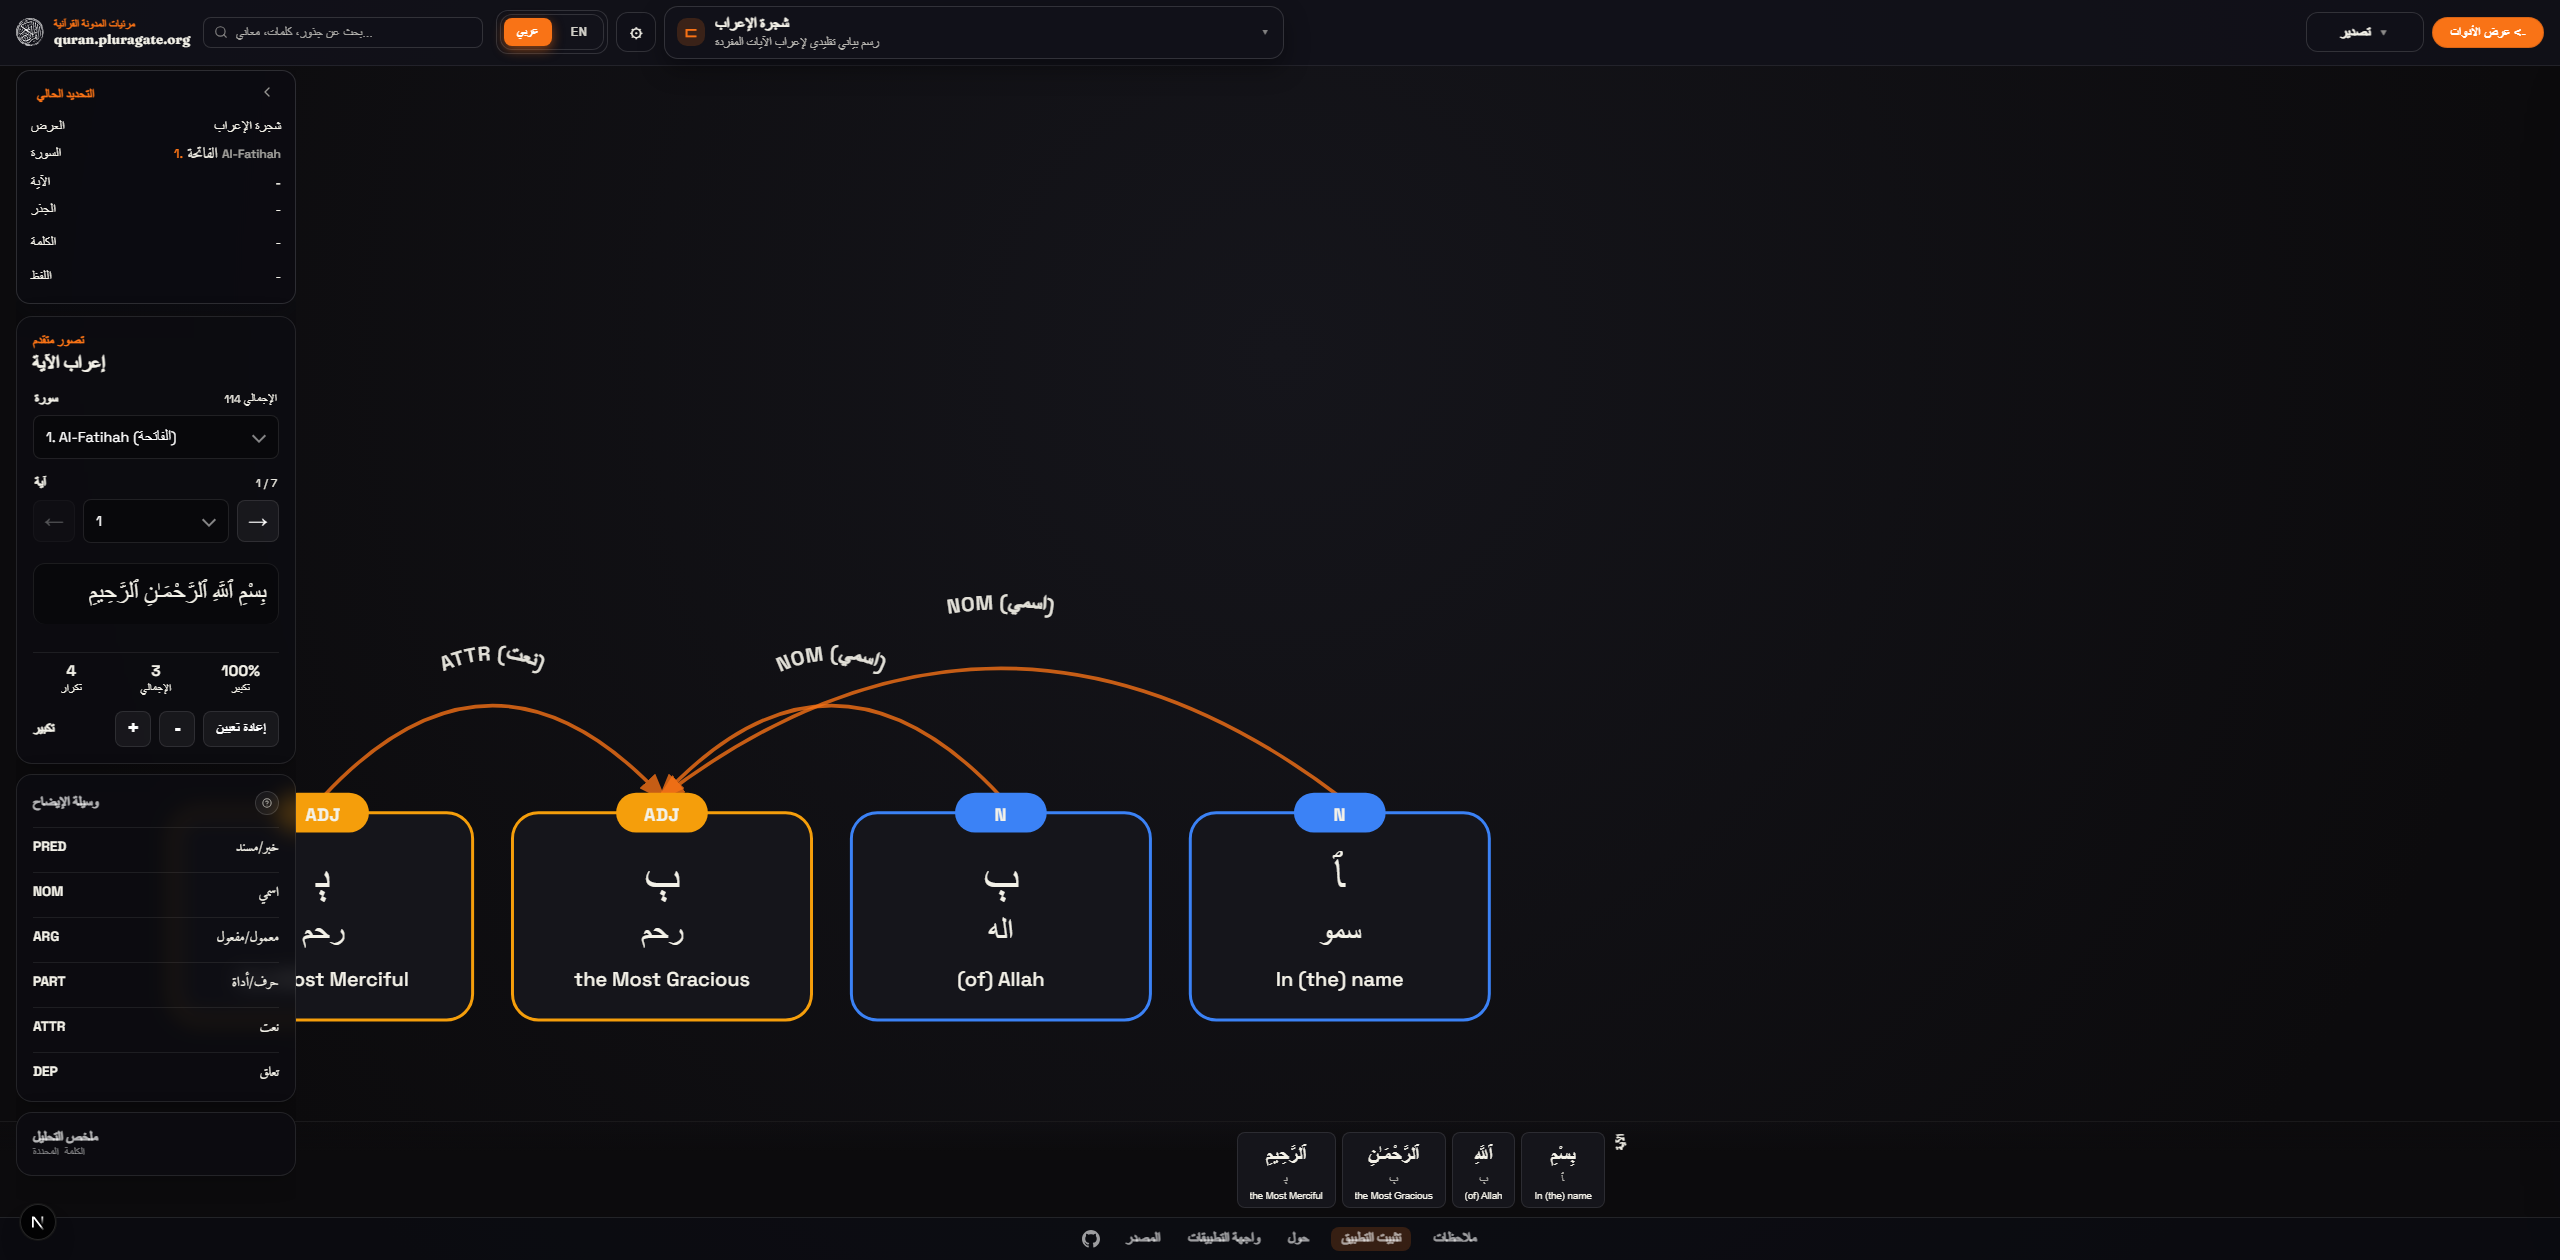
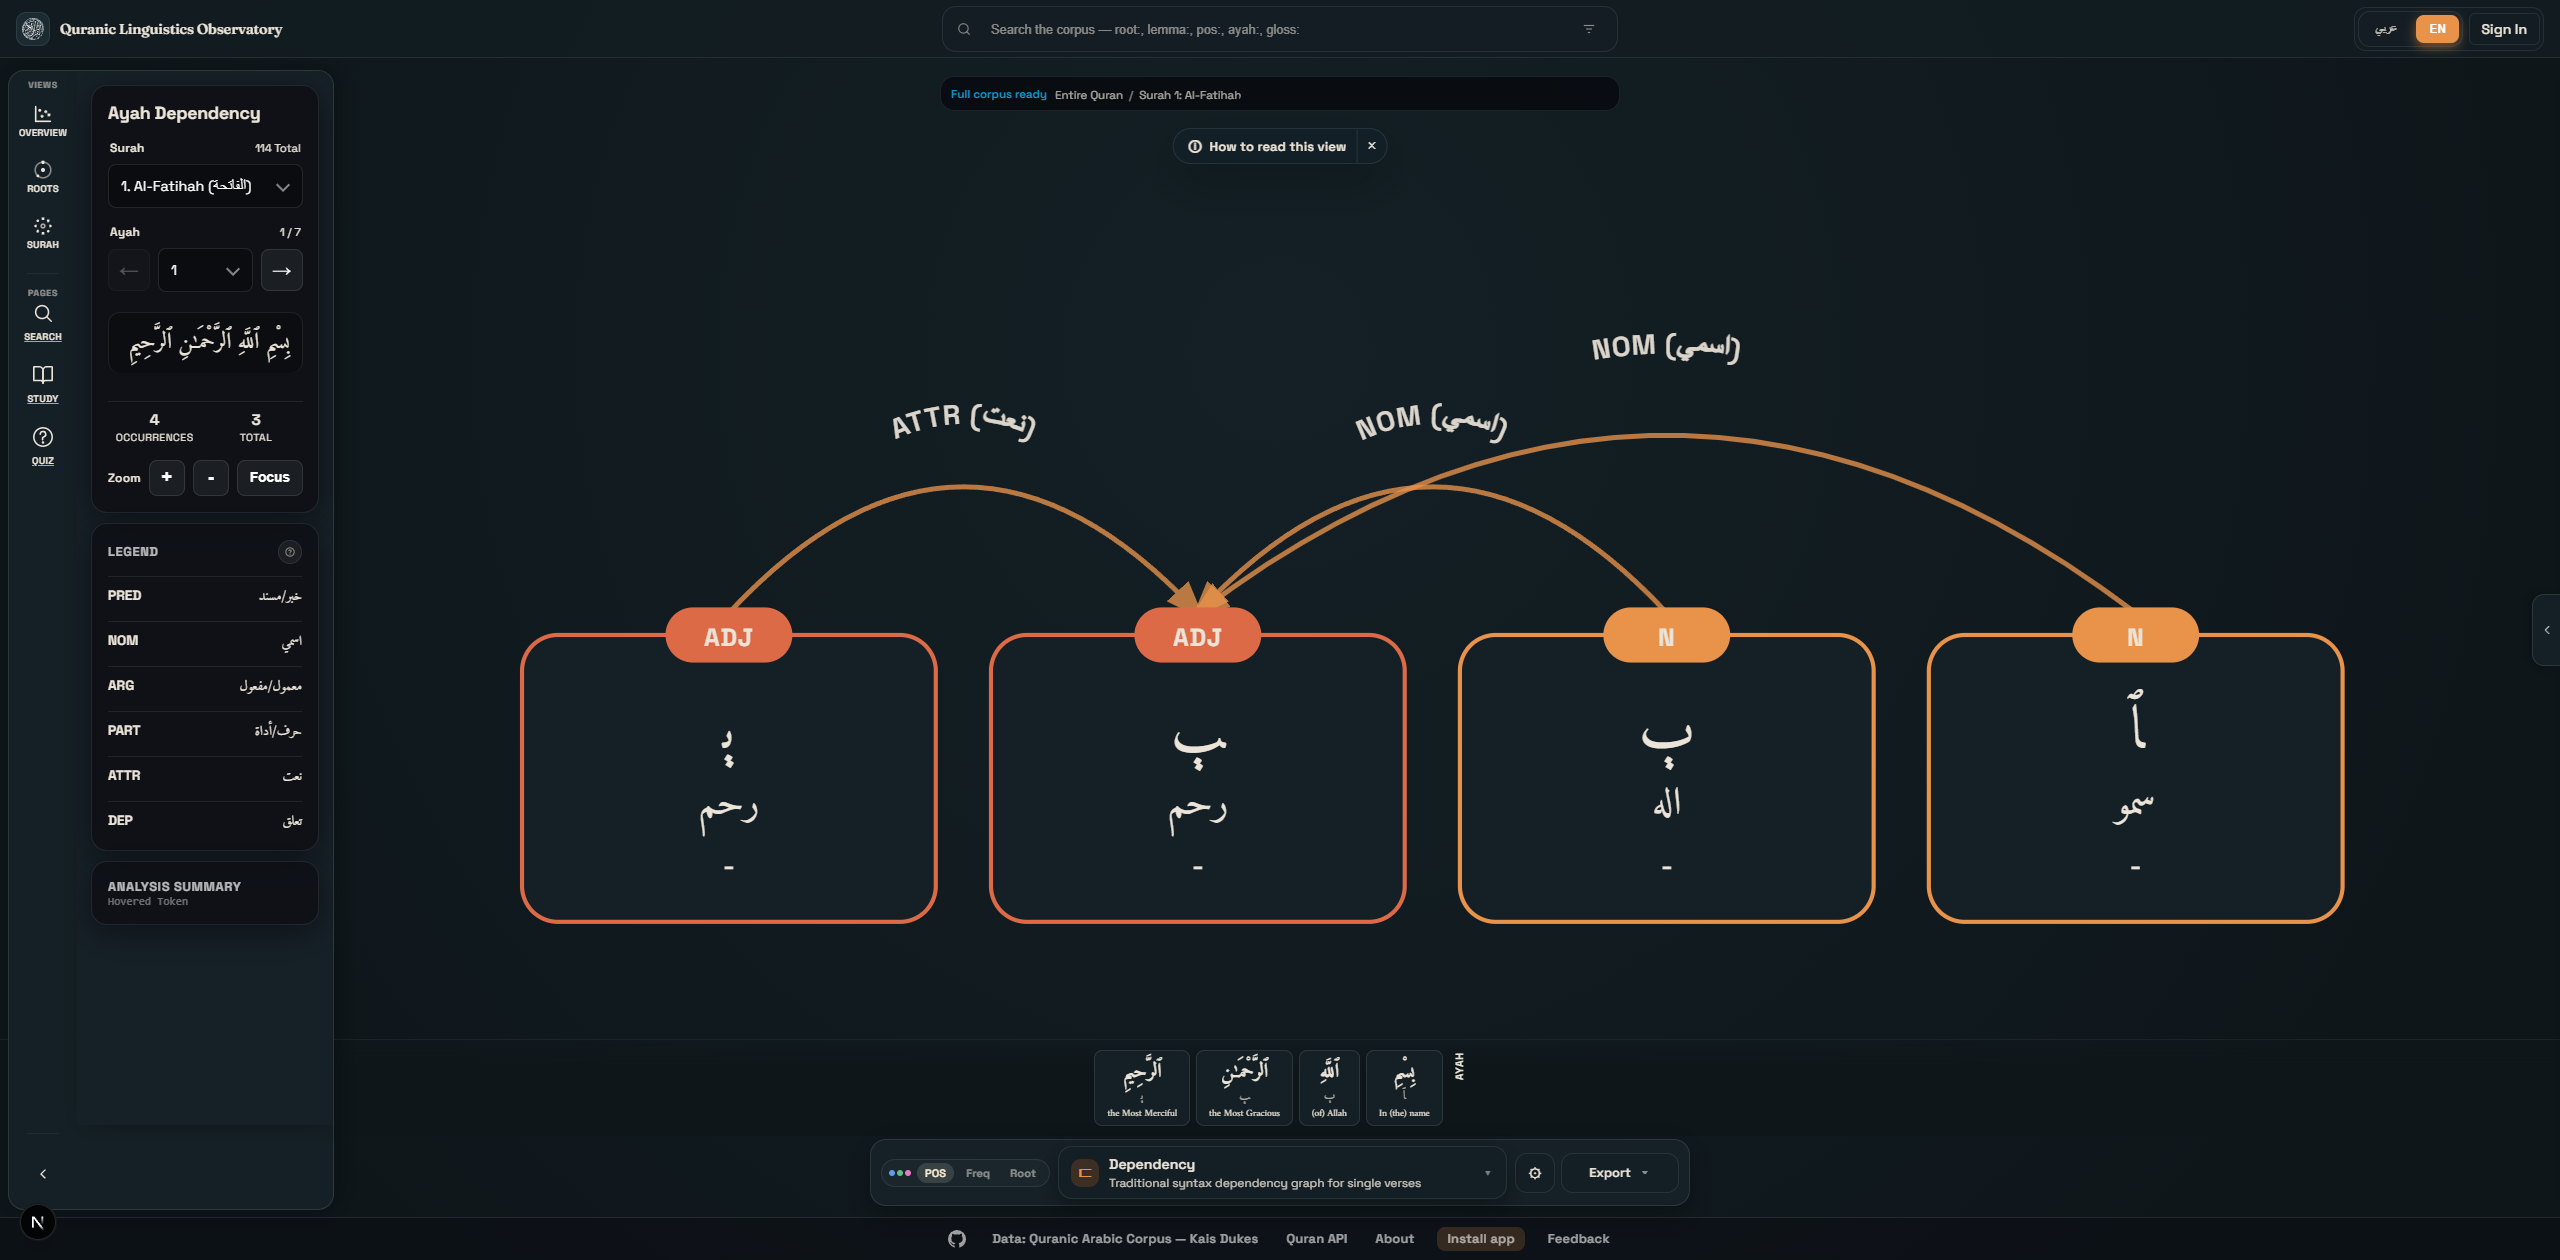
docs(readme): refresh screengrabs for the observatory redesign; fix generate-docs
- Hero is now the search-first MinimalHome landing; radial moves under Visual exploration
- Regenerate all 8 viz screenshots against the current dark shell, full corpus loaded
- Fix generate-docs.ts for the redesign: enter AppShell via ?viz= deep-link (/ now
  serves MinimalHome), select modes by URL param instead of the removed .viz-switcher UI,
  wait for [data-status="full"] (the old .loading-indicator class no longer exists so the
  hidden-wait passed instantly, capturing half-loaded graphs), drive system Chrome

diff --git a/scripts/generate-docs.ts b/scripts/generate-docs.ts
@@ -2,6 +2,18 @@ import { chromium } from '@playwright/test';
 import { promises as fs } from 'fs';
 import path from 'path';
 
+const BASE = 'http://localhost:3000';
+
+// The search-first landing (MinimalHome) is now the default at `/`. It is the
+// real first impression, so it leads the README as the hero image. The full
+// Observatory (AppShell) only mounts when a deep-link param is present, which
+// is why the viz loop below navigates to `?viz=…` instead of `/`.
+const HERO_TARGET = {
+    id: 'HOME',
+    filename: 'home-observatory.png',
+    alt: 'Quran Observatory – search-first landing'
+};
+
 const VIZ_TARGETS = [
     {
         id: 'RADIAL_SURA',
@@ -63,7 +75,9 @@ const VIZ_TARGETS = [
 
 async function generateDocumentationScreenshots() {
     console.log('Starting Playwright screenshot generation...');
-    const browser = await chromium.launch({ headless: true });
+    // Drive the system-installed Google Chrome (channel: 'chrome') so docs
+    // generation doesn't depend on Playwright's bundled Chromium download.
+    const browser = await chromium.launch({ headless: true, channel: 'chrome' });
     const context = await browser.newContext({
         viewport: { width: 2560, height: 1260 },
         deviceScaleFactor: 1,
@@ -71,8 +85,8 @@ async function generateDocumentationScreenshots() {
 
     const page = await context.newPage();
 
-    // 1. Navigate to home ONCE
-    await page.goto('http://localhost:3000');
+    // 1. Establish origin so we can seed localStorage (dismiss onboarding).
+    await page.goto(`${BASE}/en`);
 
     // 2. Set LocalStorage State for onboarding to be completed
     await page.evaluate(() => {
@@ -88,43 +102,43 @@ async function generateDocumentationScreenshots() {
         }));
     });
 
-    // 3. Reload once to apply state and start caching
-    console.log('Reloading to apply state and start caching...');
+    // 3. HERO — capture the search-first landing in its resting state.
+    console.log('Capturing home landing (hero)...');
     await page.reload({ waitUntil: 'domcontentloaded' });
+    await page.waitForSelector('.mhome', { state: 'visible' });
+    await page.waitForSelector('.mhome-chip', { state: 'visible', timeout: 30000 });
+    await page.waitForTimeout(1800); // let the atmosphere + entrance settle
+    const heroPath = path.join(process.cwd(), 'public', 'docs', 'images', HERO_TARGET.filename);
+    await page.screenshot({ path: heroPath, fullPage: false });
+    console.log(`Saved hero screenshot to ${heroPath}`);
 
-    // 4. Wait for the graph container to exist
+    // 4. Enter the Observatory (AppShell) via a deep-link param, then wait for
+    //    the graph container. `/` alone now renders MinimalHome, not the shell.
+    await page.goto(`${BASE}/en?viz=radial-sura&surah=1`);
     await page.waitForSelector('.immersive-viewport', { state: 'visible' });
 
-    // 5. Wait for the corpus loading to finish (loading indicator should disappear)
-    console.log(`Waiting for corpus caching to finish (this may take a bit on first run)...`);
-    await page.waitForTimeout(1000); // give the loading indicator time to mount
-    await page.waitForSelector('.loading-indicator', { state: 'hidden', timeout: 300000 });
-    console.log(`Corpus caching complete!`);
+    // 5. Wait for the FULL corpus to finish streaming in. The status pill flips
+    //    to data-status="full" only when all 114 surahs are loaded; screenshotting
+    //    before that yields sparse, half-populated graphs.
+    console.log(`Waiting for full corpus to stream in (this may take a bit on first run)...`);
+    await page.waitForSelector('.status-bar-label[data-status="full"]', { state: 'attached', timeout: 300000 });
+    console.log(`Full corpus ready!`);
 
     for (const target of VIZ_TARGETS) {
         console.log(`Processing ${target.vizMode}...`);
 
-        // Switch visualization using the UI
-        console.log(`Clicking switcher current...`);
-        await page.locator('.viz-switcher-current').click({ force: true });
-
-        await page.waitForSelector('.viz-switcher-dropdown', { state: 'visible', timeout: 5000 });
-
-        console.log(`Clicking option ${target.vizMode}...`);
-        // Click the specific option in the dropdown using the new data-mode attribute
-        await page.locator(`.viz-switcher-option[data-mode="${target.vizMode}"]`).click({ force: true });
-
-        // Wait until dropdown is closed
-        try {
-            await page.waitForSelector('.viz-switcher-dropdown', { state: 'hidden', timeout: 3000 });
-        } catch {
-            console.log(`Dropdown stuck, pressing Escape...`);
-            await page.keyboard.press('Escape');
-        }
+        // Select the mode via the deep-link param — AppShell hydrates `?viz=`
+        // reactively, which is far more robust than driving the switcher UI
+        // (whose modes can hide behind collapsed "show more" groups).
+        await page.goto(`${BASE}/en?viz=${target.vizMode}&surah=1`);
+        await page.waitForSelector('.immersive-viewport', { state: 'visible' });
+        // Re-navigation restarts the corpus stream from cache — wait for it to
+        // reach "full" again so every graph is fully populated, not mid-load.
+        await page.waitForSelector('.status-bar-label[data-status="full"]', { state: 'attached', timeout: 180000 });
 
         // Wait for the new graph to enter the DOM and its animations to settle
         console.log(`Waiting for ${target.vizMode} layout to stabilize...`);
-        await page.waitForTimeout(4000);
+        await page.waitForTimeout(4500);
 
         // 6. Take screenshot
         const imagePath = path.join(process.cwd(), 'public', 'docs', 'images', target.filename);
@@ -138,6 +152,11 @@ async function generateDocumentationScreenshots() {
     console.log('Updating README.md with generated screenshots...');
     const readmePath = path.join(process.cwd(), 'README.md');
     let readme = await fs.readFile(readmePath, 'utf-8');
+
+    // Hero (home landing)
+    const heroRegex = new RegExp(`<!-- HERO:${HERO_TARGET.id} -->[\\s\\S]*?<!-- END:HERO -->`, 'g');
+    const heroMarkdown = `<!-- HERO:${HERO_TARGET.id} -->\n<img width="2560" height="1260" alt="${HERO_TARGET.alt}" src="public/docs/images/${HERO_TARGET.filename}" />\n<!-- END:HERO -->`;
+    readme = readme.replace(heroRegex, heroMarkdown);
 
     for (const target of VIZ_TARGETS) {
         const regex = new RegExp(`<!-- GRAPH:${target.id} -->[\\s\\S]*?<!-- END:GRAPH -->`, 'g');

diff --git a/README.md b/README.md
@@ -16,9 +16,9 @@ Interactive exploration of Quranic linguistic structure, morphology, search, and
 
 ---
 
-<!-- GRAPH:RADIAL_SURA -->
-<img width="2560" height="1260" alt="Quran Corpus Visualizer - Radial Surah Map" src="public/docs/images/radial-sura.png" />
-<!-- END:GRAPH -->
+<!-- HERO:HOME -->
+<img width="2560" height="1260" alt="Quran Observatory – search-first landing" src="public/docs/images/home-observatory.png" />
+<!-- END:HERO -->
 
 Quran Corpus Visualizer is a Next.js application for exploring the Quran through normalized corpus data, D3-based visualizations, search tools, study workflows, and authenticated progress tracking. The app is built around four main product surfaces:
 
@@ -30,6 +30,10 @@ Quran Corpus Visualizer is a Next.js application for exploring the Quran through
 ## Key Capabilities
 
 ### Visual exploration
+
+<!-- GRAPH:RADIAL_SURA -->
+<img width="2560" height="1260" alt="Quran Corpus Visualizer – Radial Surah Map" src="public/docs/images/radial-sura.png" />
+<!-- END:GRAPH -->
 
 - Radial Surah Map, Root Network, Collocation Network, Knowledge Graph, Surah Distribution, Arc Flow, Ayah Dependency Graph, Root Flow Sankey, and Corpus Architecture views
 - Shared inspectors, breadcrumbs, explainer content, export options, and embed support
